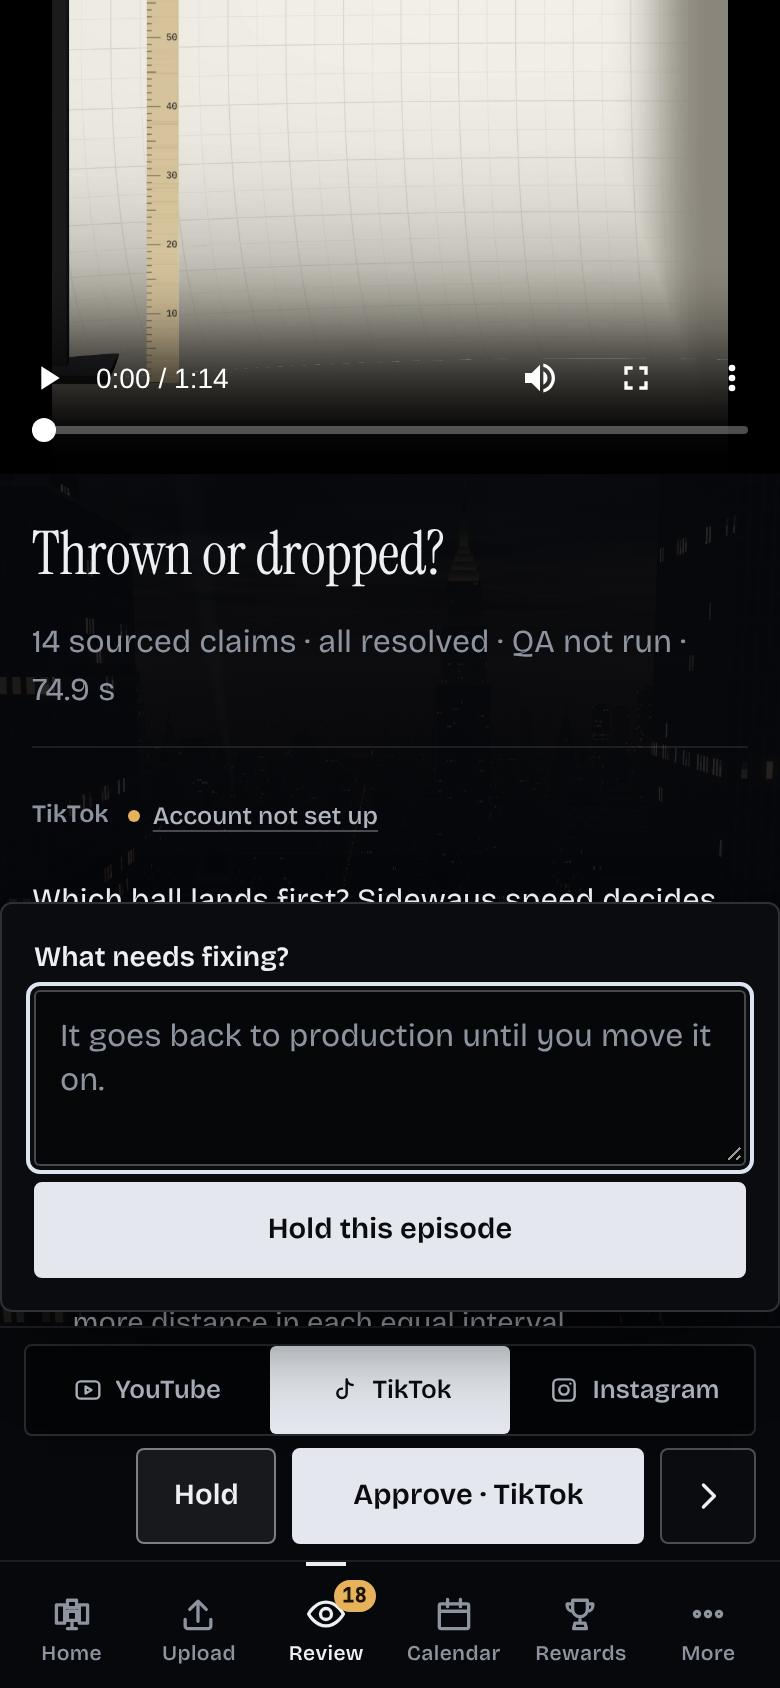
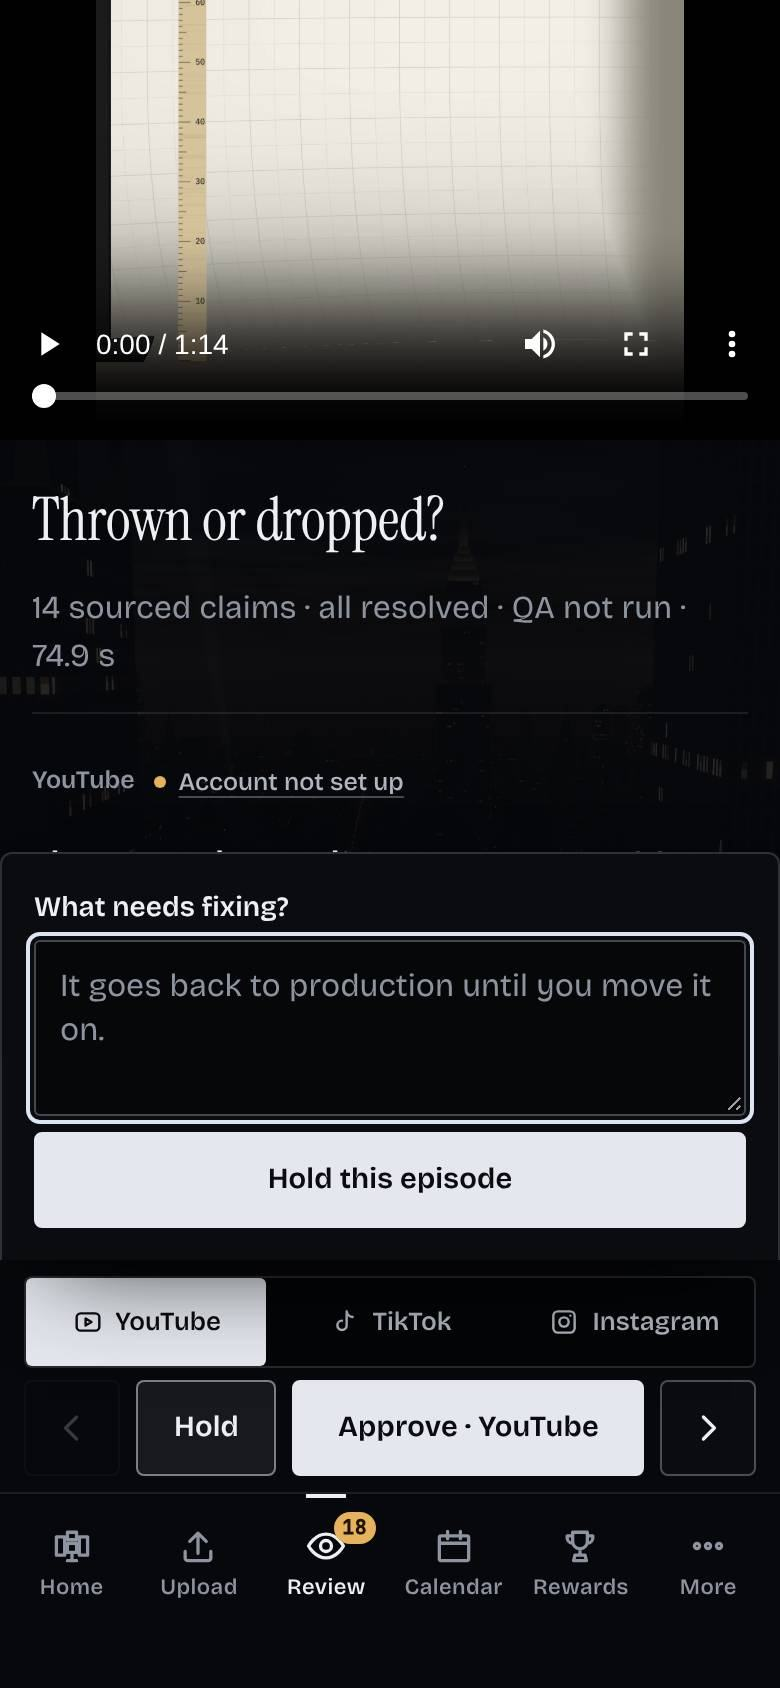
Prism Studio: phone polish lands (review fixes)
Offline banner below the notch; lede at body size; one kicker-to-title
rhythm and room for a first panel without a lede; a dimmed Previous on
the first Review episode so the thumb bar never shifts; the Hold sheet
meets the bar; '1 of 18 in review' on the episode page; a phone on its
side gets a slim tab bar, a wall that fits and Review's buttons in reach.
CHANGELOG, DECISIONS, PROJECT_STATE updated.

Claude-Session: https://claude.ai/code/session_0192s8Y4YGc45nhjXbKx65Hv

diff --git a/prism-studio/src/app/globals.css b/prism-studio/src/app/globals.css
@@ -923,13 +923,32 @@ a, button, summary, label, input, select, textarea { -webkit-tap-highlight-color
 .nav { padding-inline: max(4px, env(safe-area-inset-left)) max(4px, env(safe-area-inset-right)); }
 @media (max-width: 600px) {
   /* a calmer type scale on a phone: the lede a step down, headings tighter to their text */
-  .lede { font-size: 15.5px; line-height: 1.5; margin-bottom: var(--s4); }
+  .lede { font-size: 16px; line-height: 1.45; margin-bottom: var(--s4); }
   h1, .h1 { margin-bottom: 8px; }
   .section-head { margin-bottom: var(--s3); }
 }
 @media (max-width: 899px), (pointer: coarse) {
   .help-link { display: inline-flex; align-items: center; min-height: 44px; }
   .slide-sources a { padding-inline: 2px; margin-inline: -2px; }
+}
+/* one rhythm on every screen: the kicker close above the title, and a page without a lede still gives its first panel room */
+.kicker + h1 { margin-top: 6px; }
+h1 + :is(.card, section, form, .stack, .stack-lg) { margin-top: var(--s4); }
+/* the Review thumb bar on the first episode keeps its place for Previous, dimmed */
+.step[aria-disabled="true"] { opacity: .35; pointer-events: none; }
+@media (max-width: 719px) {
+  .hold-sheet { bottom: 100%; border-radius: var(--r) var(--r) 0 0; border-bottom: 0; }
+}
+/* a phone on its side (a browser tab; the installed app stays upright): a slim tab bar with icon and label side by
+   side, the wall no wider than the screen is tall, and Review's thumb bar kept in reach */
+@media (orientation: landscape) and (max-height: 500px) {
+  :root { --nav-h: 48px; }
+  .nav > a, .nav summary { grid-auto-flow: column; gap: 6px; padding: 4px 2px; }
+  .nav .count { top: -4px; }
+  .home .rig { max-width: calc((100dvh - var(--nav-h)) * 1.45); margin-inline: auto; }
+  .reel-page .reel-intro { position: absolute; width: 1px; height: 1px; overflow: hidden; clip: rect(0, 0, 0, 0); white-space: nowrap; }
+  .reel > .slide .slide-bar, .slide.single .slide-bar { position: sticky; bottom: calc(var(--nav-h) + env(safe-area-inset-bottom)); margin: var(--s3) 0; padding: 8px 0; background: #07080B; }
+  .slide-video { max-height: calc(100dvh - var(--nav-h) - 40px); }
 }
 /* the installed app (Home Screen): a dark band under the status bar so scrolled text never runs under the clock; the
    page doesn't rubber-band past its ends (the fixed skyline would slide away) */
@@ -944,4 +963,4 @@ a, button, summary, label, input, select, textarea { -webkit-tap-highlight-color
   .mon:hover, .mon:focus-visible, .thumb:hover, .thumb:focus-visible { translate: none; }
 }
 .sr-only { position: absolute; width: 1px; height: 1px; padding: 0; margin: -1px; overflow: hidden; clip: rect(0, 0, 0, 0); white-space: nowrap; border: 0; }
-.offline-banner { position: sticky; top: 0; z-index: 50; background: var(--warn); color: #1B1200; text-align: center; font-size: 13.5px; padding: 6px 10px; }
+.offline-banner { position: sticky; top: 0; z-index: 50; background: var(--warn); color: #1B1200; text-align: center; font-size: 13.5px; padding: calc(6px + env(safe-area-inset-top)) 10px 6px; }

diff --git a/prism-studio/src/components/ReviewSlide.tsx b/prism-studio/src/components/ReviewSlide.tsx
@@ -40,7 +40,7 @@ export function ReviewSlide({ full, tz, head, prev, next, position, back, source
           ? <Link href={back.href} className="kicker topic-text">← {back.label} · No. {String(ep.number).padStart(3, "0")}</Link>
           : <span className="kicker topic-text">{kicker}</span>}
         <span className="slide-top-title" aria-hidden>{ep.title}</span>
-        {position ? <span className="num slide-count">{position.n} / {position.of}</span> : null}
+        {position ? <span className="num slide-count">{single ? `${position.n} of ${position.of} in review` : `${position.n} / ${position.of}`}</span> : null}
       </div>
 
       <div className="slide-media">
@@ -66,7 +66,7 @@ export function ReviewSlide({ full, tz, head, prev, next, position, back, source
           </fieldset>
         ) : null}
         <div className="bar-actions">
-          {prev ? <a href={prev.href} className="btn ghost step" data-step="prev" aria-label={`Previous: ${prev.label}`}><Icon name="back" /></a> : <span className="step" aria-hidden />}
+          {prev ? <a href={prev.href} className="btn ghost step" data-step="prev" aria-label={`Previous: ${prev.label}`}><Icon name="back" /></a> : <span className="btn ghost step" data-step="prev" aria-disabled="true" aria-hidden><Icon name="back" /></span>}
           <details className="hold">
             <summary className="btn ghost">Hold</summary>
             <div className="hold-sheet">
@@ -89,7 +89,7 @@ export function ReviewSlide({ full, tz, head, prev, next, position, back, source
               </div>
             ))}
           </div>
-          {next ? <a href={next.href} className="btn ghost step" data-step="next" aria-label={`Next: ${next.label}`}><Icon name="back" /></a> : <span className="step" aria-hidden />}
+          {next ? <a href={next.href} className="btn ghost step" data-step="next" aria-label={`Next: ${next.label}`}><Icon name="back" /></a> : <span className="btn ghost step" data-step="next" aria-disabled="true" aria-hidden><Icon name="back" /></span>}
         </div>
       </div>
       <div className="slide-info">

diff --git a/prism-studio/PROJECT_STATE.md b/prism-studio/PROJECT_STATE.md
@@ -7,7 +7,7 @@ server, developer apps at Google, TikTok and Meta, the 11 accounts, and a first 
 when asked: `LESSON_E2E=1`). The screens were checked in Chromium at 390 px and 1440 px: no sideways scroll,
 no page errors, no failed requests. `npm run preview` retakes the gallery in `docs/preview-gallery/`.
 
-## Layout round 2 (in progress, `docs/LAYOUT-BRIEF.md`)
+## Layout round 2 (done, `docs/LAYOUT-BRIEF.md`)
 - Goal 1, phone-first Review (done): Review and the episode page are a full-screen vertical player on a phone (swipe or
   ‹ ›, switches, Hold and Approve at the thumb, text and sources below); desktop keeps the cards. Works without
   JavaScript. Screenshots: `docs/preview-gallery/review-*` and `episode-*` (before/after).
@@ -17,8 +17,11 @@ no page errors, no failed requests. `npm run preview` retakes the gallery in `do
 - Goal 3, season progress (done): "Season 1 · 6 of 6 ready" and a segment per episode on every monitor and channel
   screen, from the database; "Season 1 in production" with the six planned titles for the two new channels.
   Screenshots: `season-*`.
-- Goal 4, phone polish (built; review pending): safe areas (checked with an emulated notch), the installed-app look,
-  tap targets, type scale, the phone wall's layout. Screenshots: `phone-notch-*`, `season-wall-phone-*`.
+- Goal 4, phone polish (done): safe areas (checked with an emulated notch and home bar), the installed-app look, tap
+  targets (none under 44 px on the screens checked), type scale and rhythm, the phone wall's layout, a phone on its
+  side. Screenshots: `phone-notch-*`, `phone-landscape-*`, `season-wall-phone-*`.
+- Left as they are: long ledes on some screens (Library, Analytics) push content down on a phone; the owner may want
+  them shortened. Settings titles its panels in the sans, unlike the serif section titles elsewhere.
 
 ## Stage A: foundation (done)
 - Schema, migrations and seed: 5 channels, 11 destinations, 5 creations, 40 challenges and quests, 8 milestone

diff --git a/prism-studio/DECISIONS.md b/prism-studio/DECISIONS.md
@@ -55,3 +55,4 @@
 | 2026-11-02 | On a phone, Review is a reel of full-screen slides (scroll snap sideways, each slide scrolls on its own) with a sticky thumb bar; the platform switches are radio inputs that show their panel through CSS `:has()`; Previous/Next are `#ep-…` links. Approve is still one account at a time | The owner reviews on an iPhone through a static copy with no scripts, so swiping, stepping and switching can't depend on JavaScript. One account per Approve keeps an approval bound to one exact export and destination |
 | 2026-11-02 | Channel identities are keyed by slug (`src/lib/identity.ts`) and drawn in CSS on the wall, the strip and the channel's header; the rest of each screen stays night glass. Colours move through a data migration that only touches untouched defaults | The owner's wall must keep one identity while two channels bring their films' look; a colour the owner set by hand is never overwritten |
 | 2026-11-02 | Season progress: "ready" = ready for review or any later step; "posted" = published or later; cancelled and superseded episodes don't count. A channel with no series in the database shows its planned titles (catalog) and "in production", never a count | Glanceable and honest: the wall must never show a number the database doesn't have |
+| 2026-11-02 | Pages pad for the notch and the rounded corners with `env(safe-area-inset-*)`, and the installed app gets a dark band under its status bar | The Home Screen app uses a translucent status bar (`black-translucent`, `viewport-fit=cover`), so without the inset the top of every page sat under the clock |

diff --git a/prism-studio/CHANGELOG.md b/prism-studio/CHANGELOG.md
@@ -31,6 +31,11 @@
   translucent); in the installed app a dark band sits under the status bar and the page doesn't rubber-band past its
   ends; no tap flash or double-tap delay on controls; the tab bar and thumb bar aren't selectable; a calmer lede on
   phones; Accounts' help links are 44 px tall.
+- Phone polish after review: the offline banner sits below the notch; the lede stays at body size (16 px); one
+  kicker-to-title rhythm on every screen, and a page without a lede gives its first panel room; Review's first episode
+  keeps a dimmed Previous so the thumb bar never shifts; the Hold sheet meets the bar; the episode page says "1 of 18
+  in review". A phone on its side (a browser tab; the installed app stays upright) gets a slim tab bar, a wall that
+  fits the screen and Review's buttons above the tab bar.
 
 ## 0.6.4 — 2026-10-26 (final check)
 - Costs: while a studio budget is set, an entry in another currency anywhere that month (studio-wide or any channel's)
